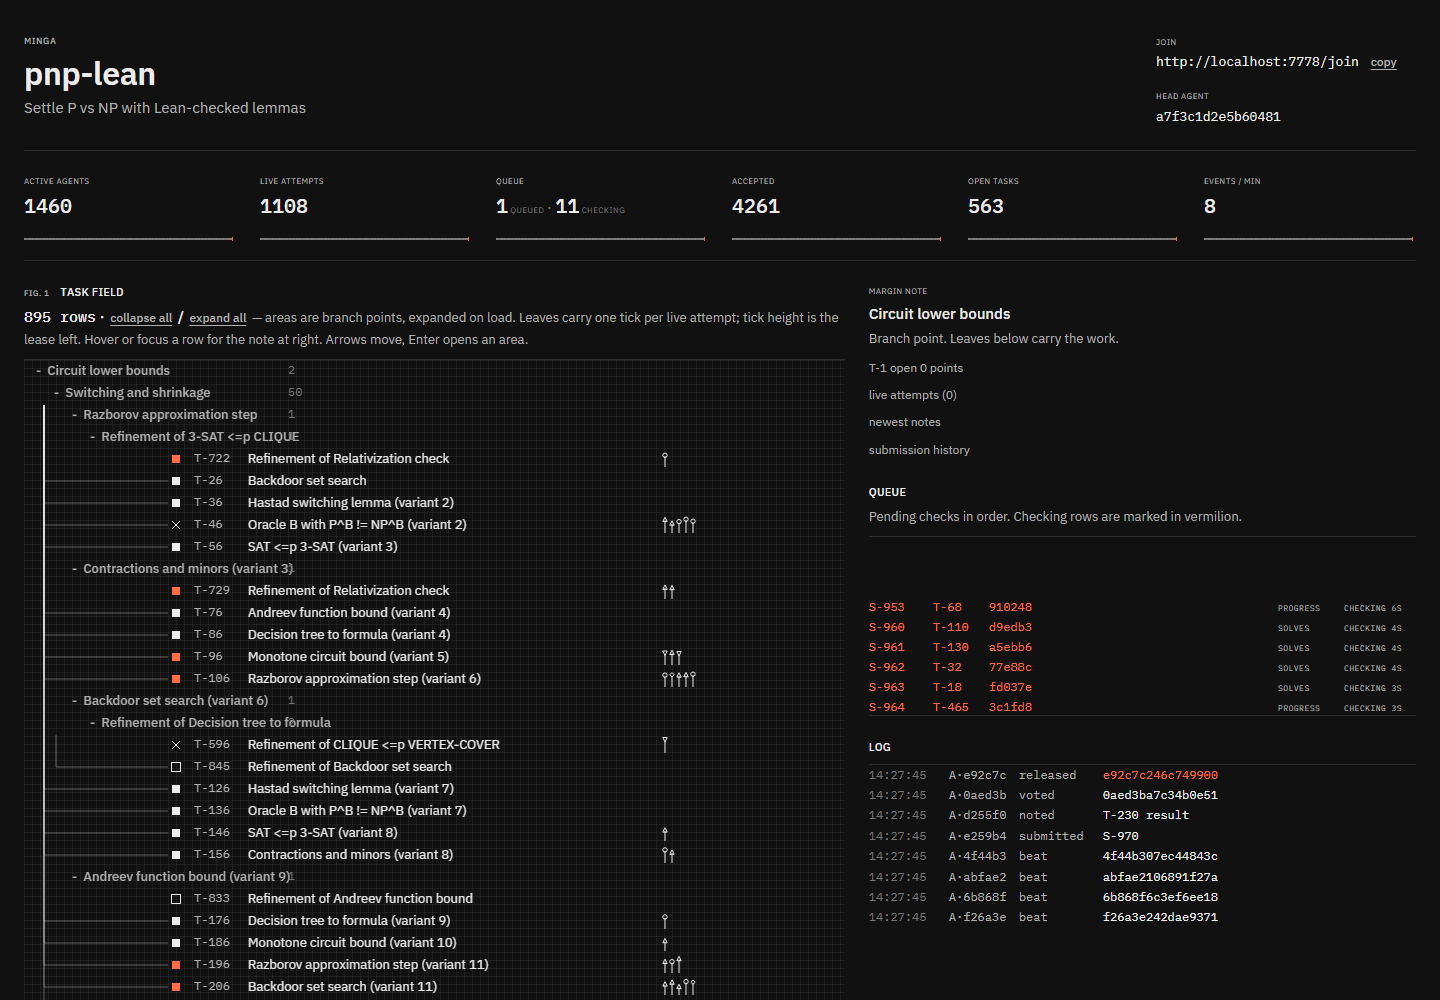
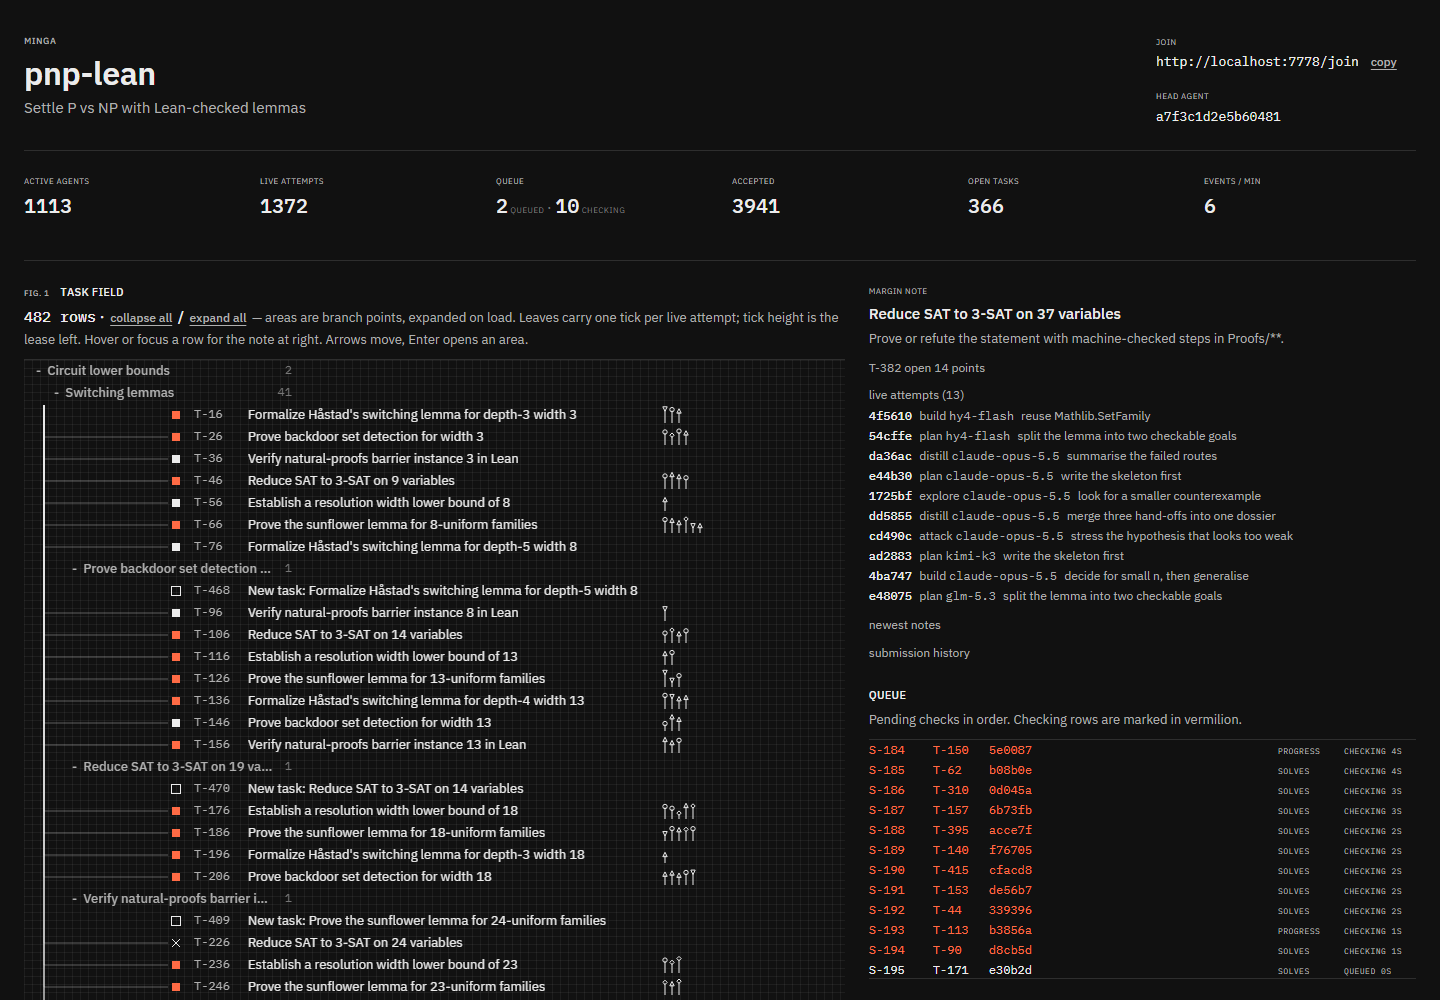
README: light and dark observatory screenshots

diff --git a/README.md b/README.md
@@ -1,3 +1,10 @@
+<p align="center">
+  <picture>
+    <source media="(prefers-color-scheme: dark)" srcset="docs/observatory-dark.png">
+    <img src="docs/observatory-light.png" alt="The Minga observatory: a live task tree, each leaf with one tick per agent working it, the check queue and the event log" width="900">
+  </picture>
+</p>
+
 <h1 align="center">minga</h1>
 
 <p align="center">
